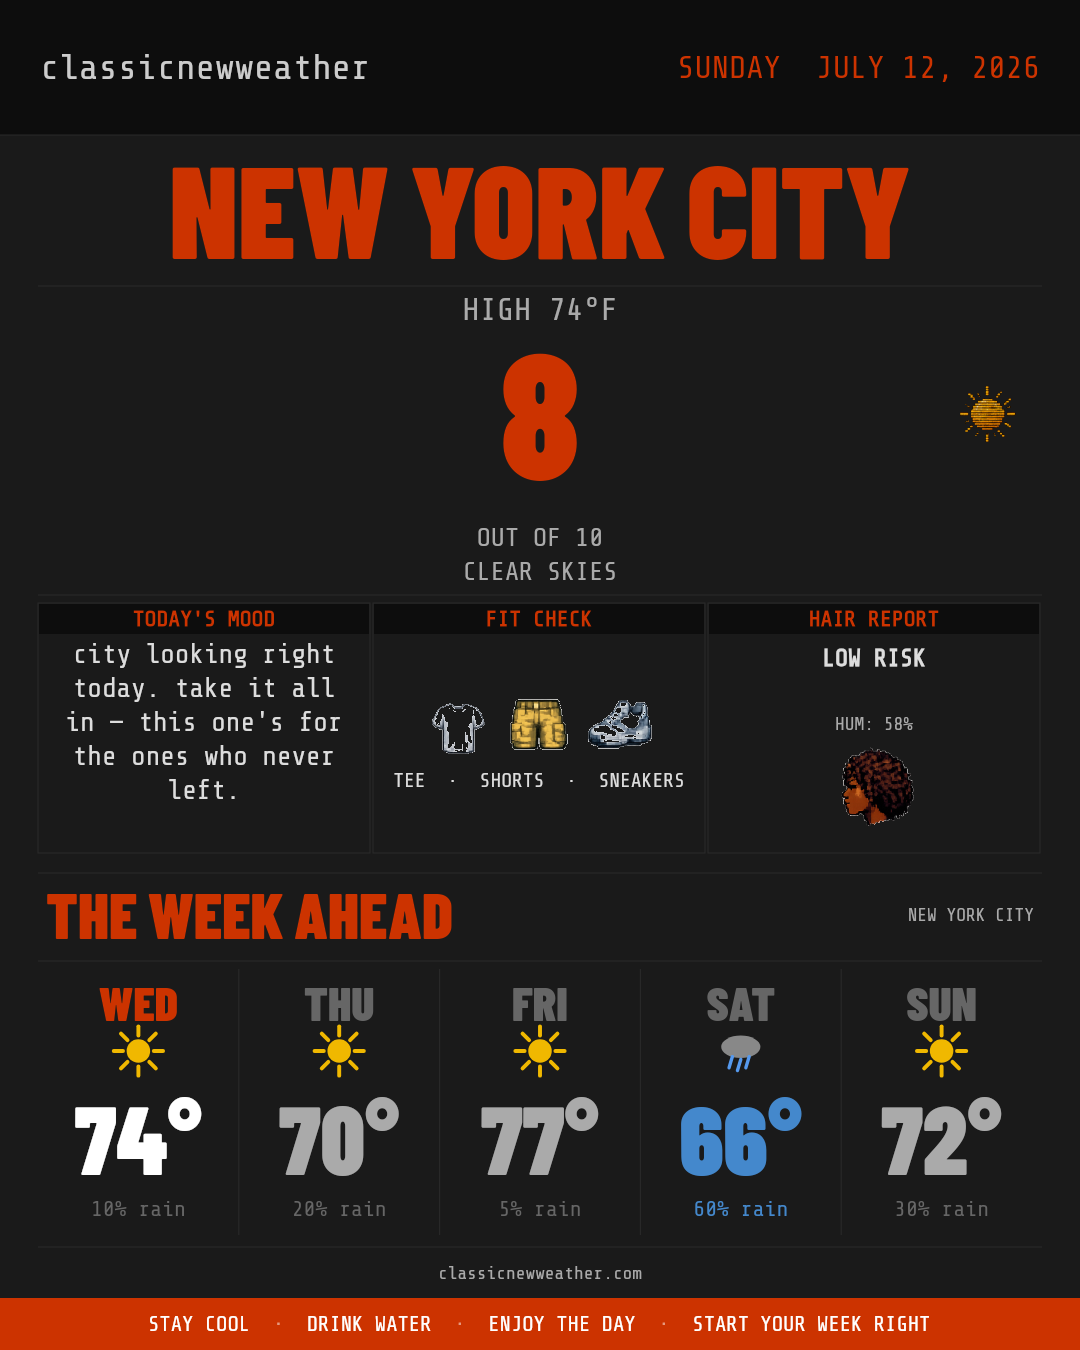
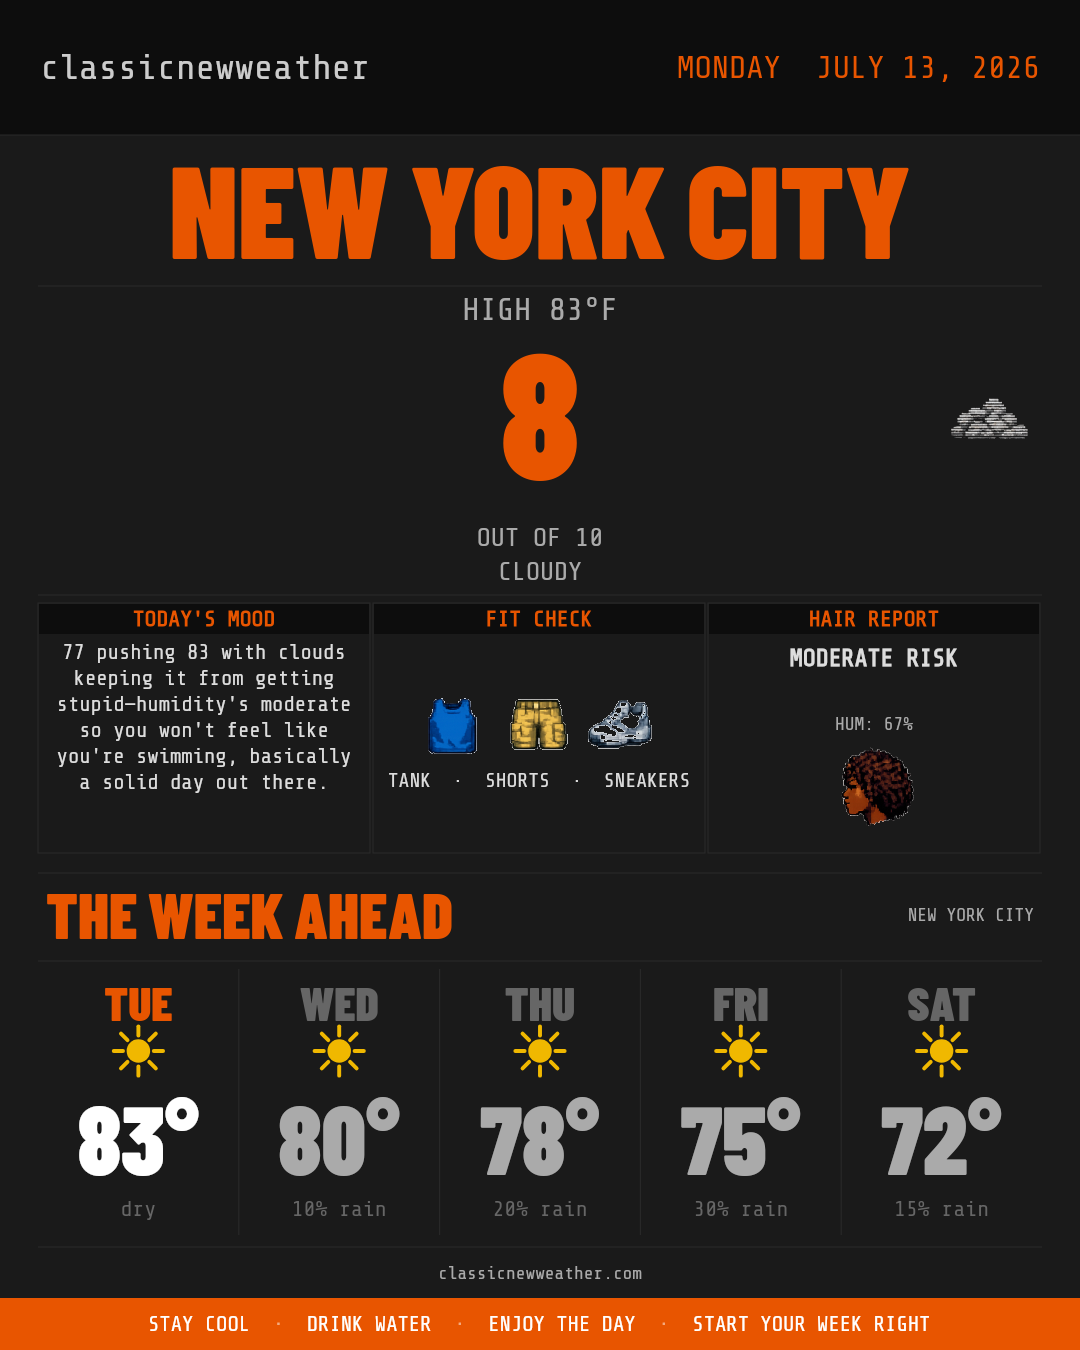
update analytics

diff --git a/index.html b/index.html
@@ -610,5 +610,32 @@ async function init() {
 
 init();
 </script>
+
+<script>
+// ── VISIT TRACKING ──
+(function() {
+  try {
+    let visitorId = localStorage.getItem('cnw_visitor_id');
+    if (!visitorId) {
+      visitorId = crypto.randomUUID();
+      localStorage.setItem('cnw_visitor_id', visitorId);
+    }
+    let sessionId = sessionStorage.getItem('cnw_session_id');
+    if (!sessionId) {
+      sessionId = crypto.randomUUID();
+      sessionStorage.setItem('cnw_session_id', sessionId);
+    }
+    fetch('/.netlify/functions/track-visit', {
+      method: 'POST',
+      headers: { 'Content-Type': 'application/json' },
+      body: JSON.stringify({
+        visitor_id: visitorId,
+        session_id: sessionId,
+        referrer: document.referrer || null
+      })
+    }).catch(() => {});
+  } catch(e) {}
+})();
+</script>
 </body>
 </html>
